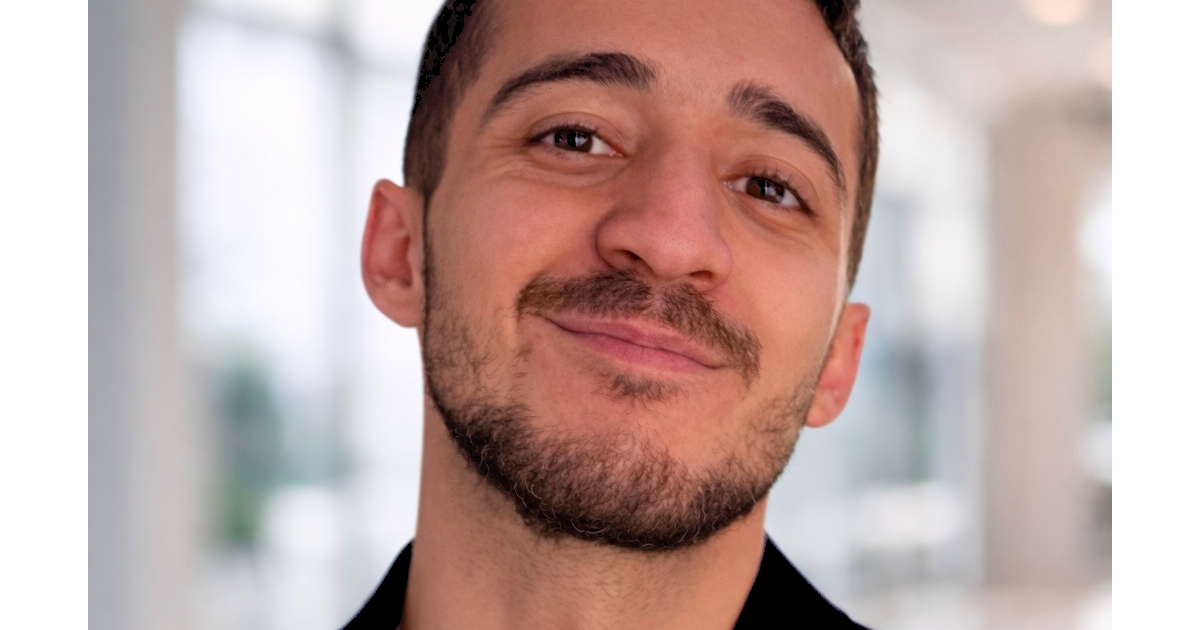
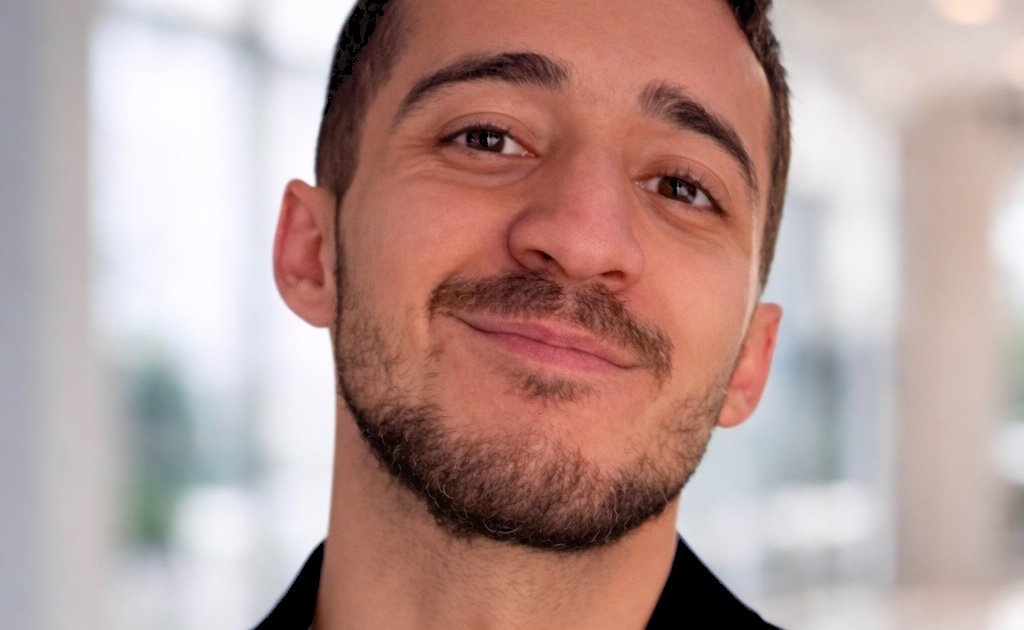
feat: meta data updates

diff --git a/src/app/[locale]/layout.tsx b/src/app/[locale]/layout.tsx
@@ -56,7 +56,7 @@ export async function generateMetadata({
     .map((keyword) => keyword.trim())
     .filter(Boolean);
   const previewImageUrl = new URL(
-    "/assets/images/og-preview.jpg?v=1",
+    "/assets/images/og-preview.jpg?v=2",
     baseUrl,
   ).toString();
 
@@ -84,7 +84,7 @@ export async function generateMetadata({
       images: [
         {
           url: previewImageUrl,
-          width: 1200,
+          width: 1024,
           height: 630,
           type: "image/jpeg",
           alt: t("title"),